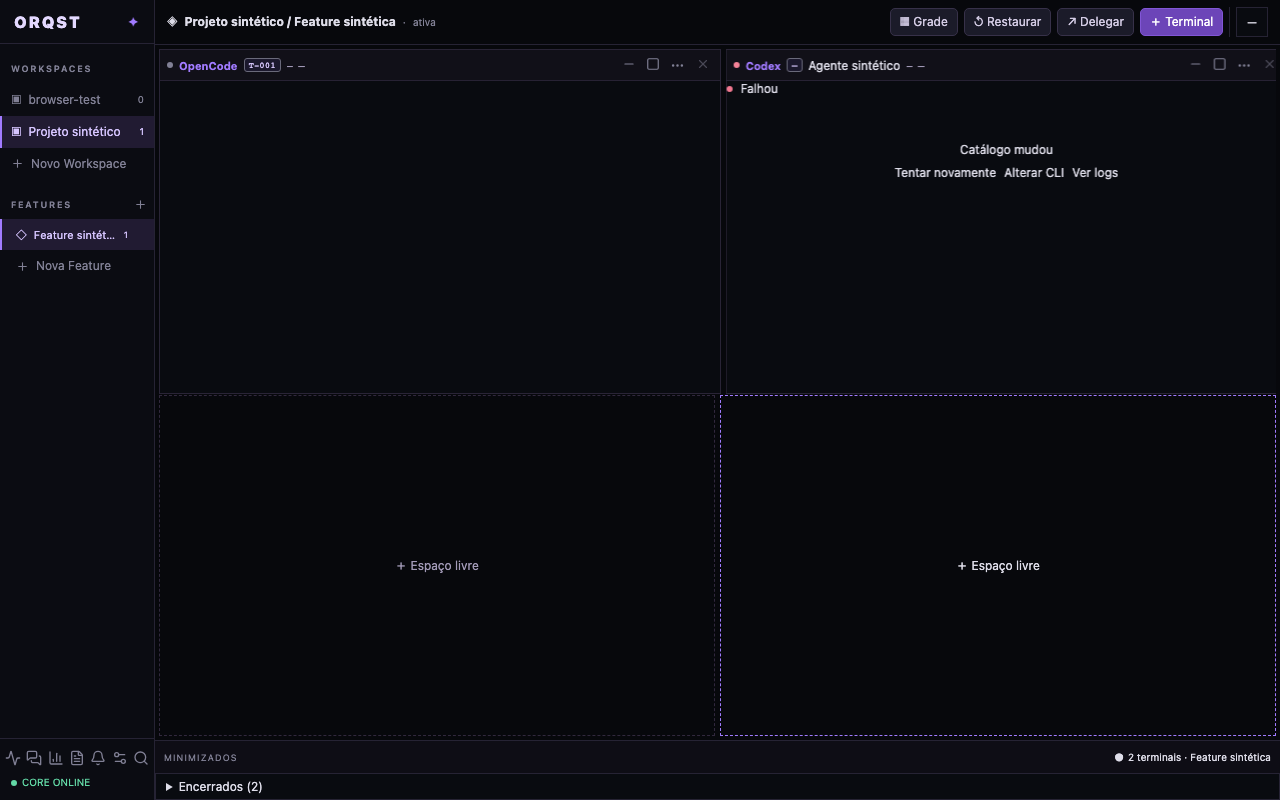
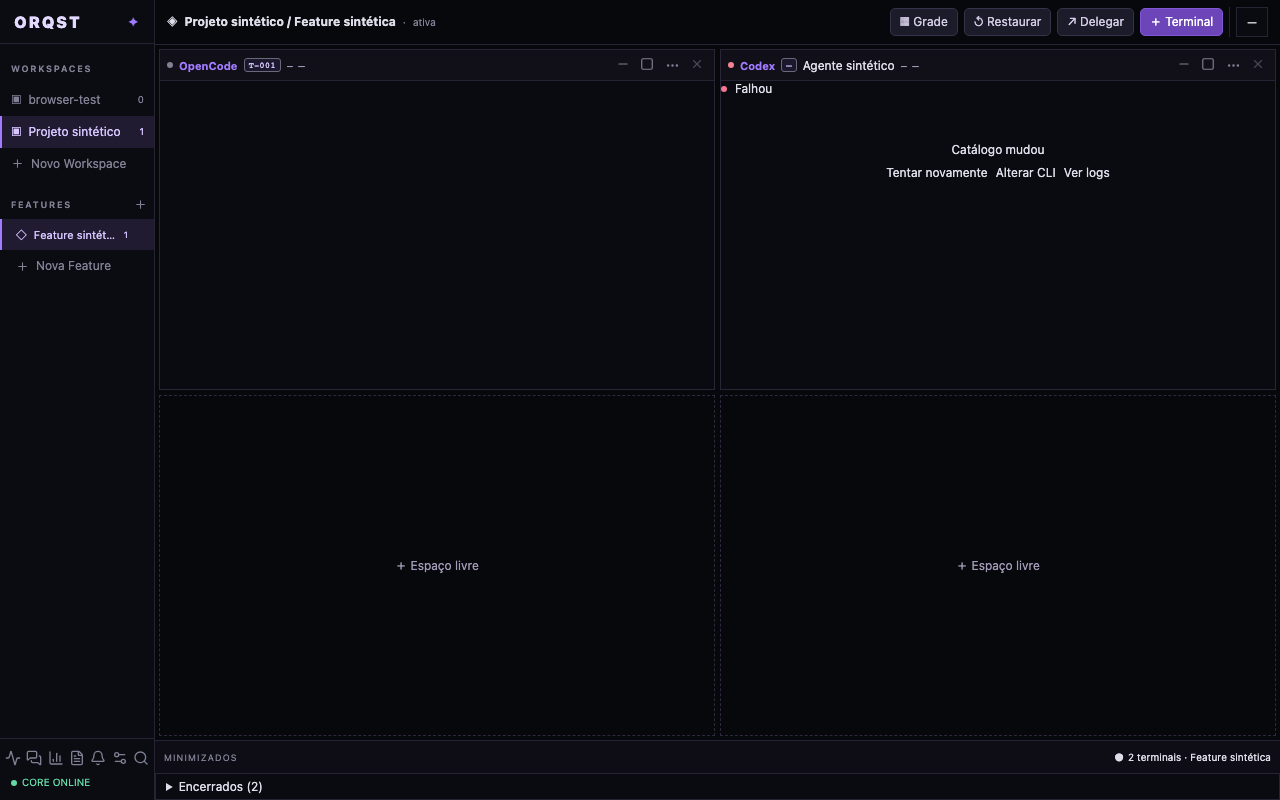
test: capture terminal states after layout settles

diff --git a/tests/browser/spec-l3-lifecycle.spec.ts b/tests/browser/spec-l3-lifecycle.spec.ts
@@ -131,18 +131,25 @@ test('L3 projects the submit before the native reply and preserves failure on th
   const integrated = process.env.ORQST_SPEC_INTEGRATED_CAPTURES;
   const evidence = process.env.ORQST_SPEC_L3_SCREENSHOTS;
   async function capture(state: string, width: 1440 | 1280) {
-    if (evidence || integrated)
+    if (evidence || integrated) {
+      await page.mouse.move(0, 0);
       await page.evaluate(
         () =>
           new Promise<void>((resolve) => {
             requestAnimationFrame(() => requestAnimationFrame(() => resolve()));
           }),
       );
+    }
     if (integrated)
       await page.screenshot({
+        animations: 'disabled',
         path: resolve(integrated, width === 1440 ? '1440x900' : '1280x800', state + '.png'),
       });
-    else if (evidence) await page.screenshot({ path: resolve(evidence, `${state}-${width}.png`) });
+    else if (evidence)
+      await page.screenshot({
+        path: resolve(evidence, `${state}-${width}.png`),
+        animations: 'disabled',
+      });
   }
   if (evidence) await mkdir(evidence, { recursive: true });
   await page.setViewportSize({ width: 1440, height: 900 });
